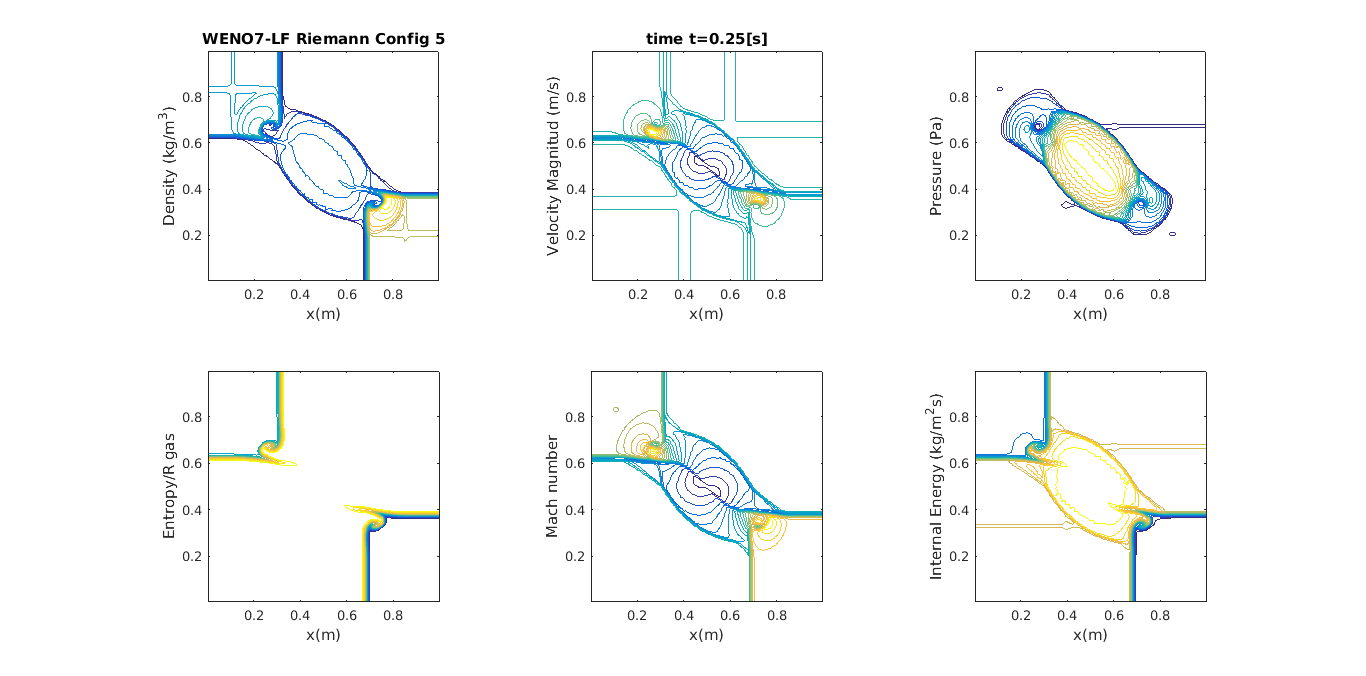
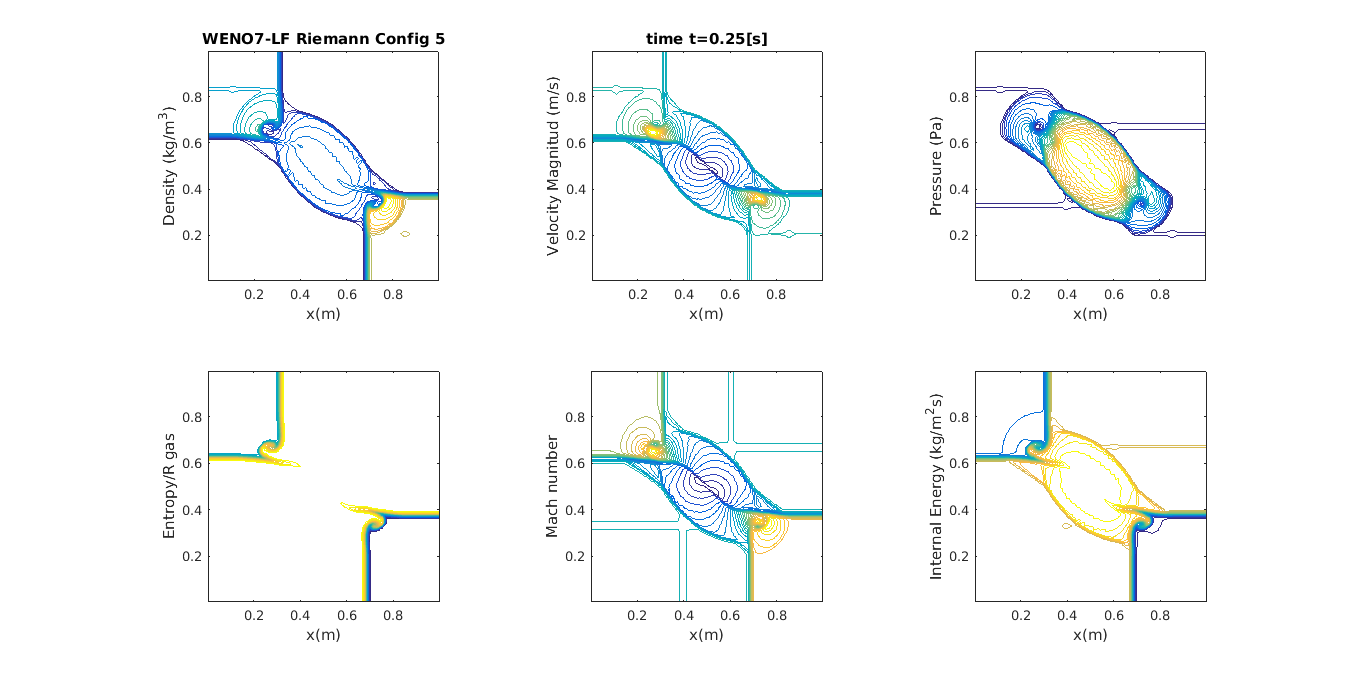
Initial commit

diff --git a/WENO/FV_WENO_EE_Riemann2d.m b/WENO/FV_WENO_EE_Riemann2d.m
@@ -30,12 +30,12 @@ global gamma
 %% Parameters
 CFL     = 0.60;     % CFL number
 tEnd    = 0.25;     % Final time
-nx      = 400;      % Number of cells/Elements in x
-ny      = 400;      % Number of cells/Elements in y
+nx      = 200;      % Number of cells/Elements in x
+ny      = 200;      % Number of cells/Elements in y
 n       = 5;        % Degrees of freedom: ideal air=5, monoatomic gas=3.
 IC      = 05;       % 19 IC cases are available
 fluxMth ='HLLE';    % LF, RUS, ROE, HLLE, HLLC.
-reconMth='WENO5';   % WENO5, WENO7, Poly5, Poly7;
+reconMth='WENO7';   % WENO5, WENO7, Poly5, Poly7;
 plotFig = false;     % Visualize evolution of domain
 
 % Ratio of specific heats for ideal di-atomic gas
